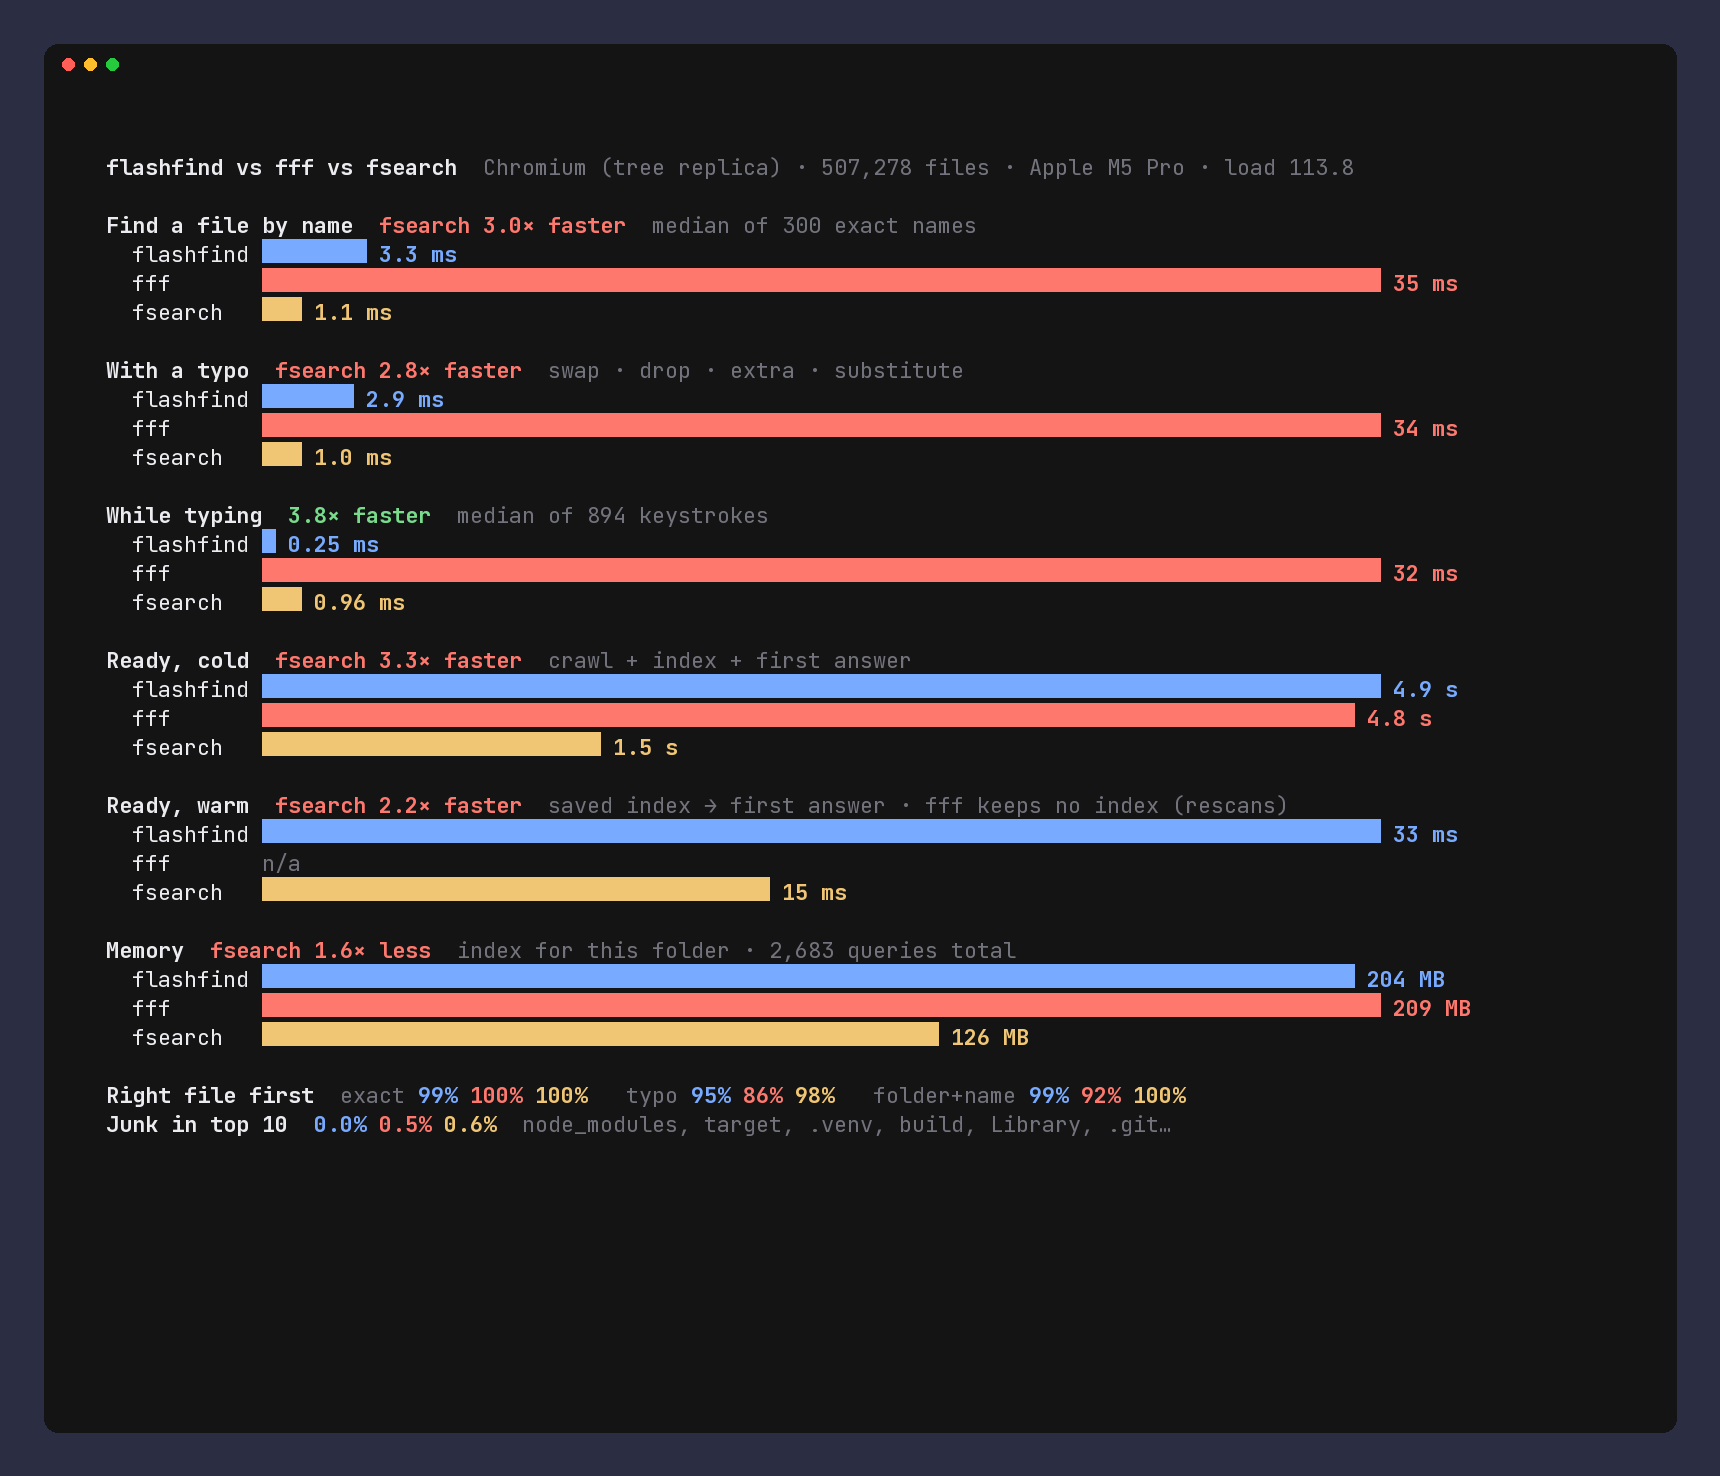
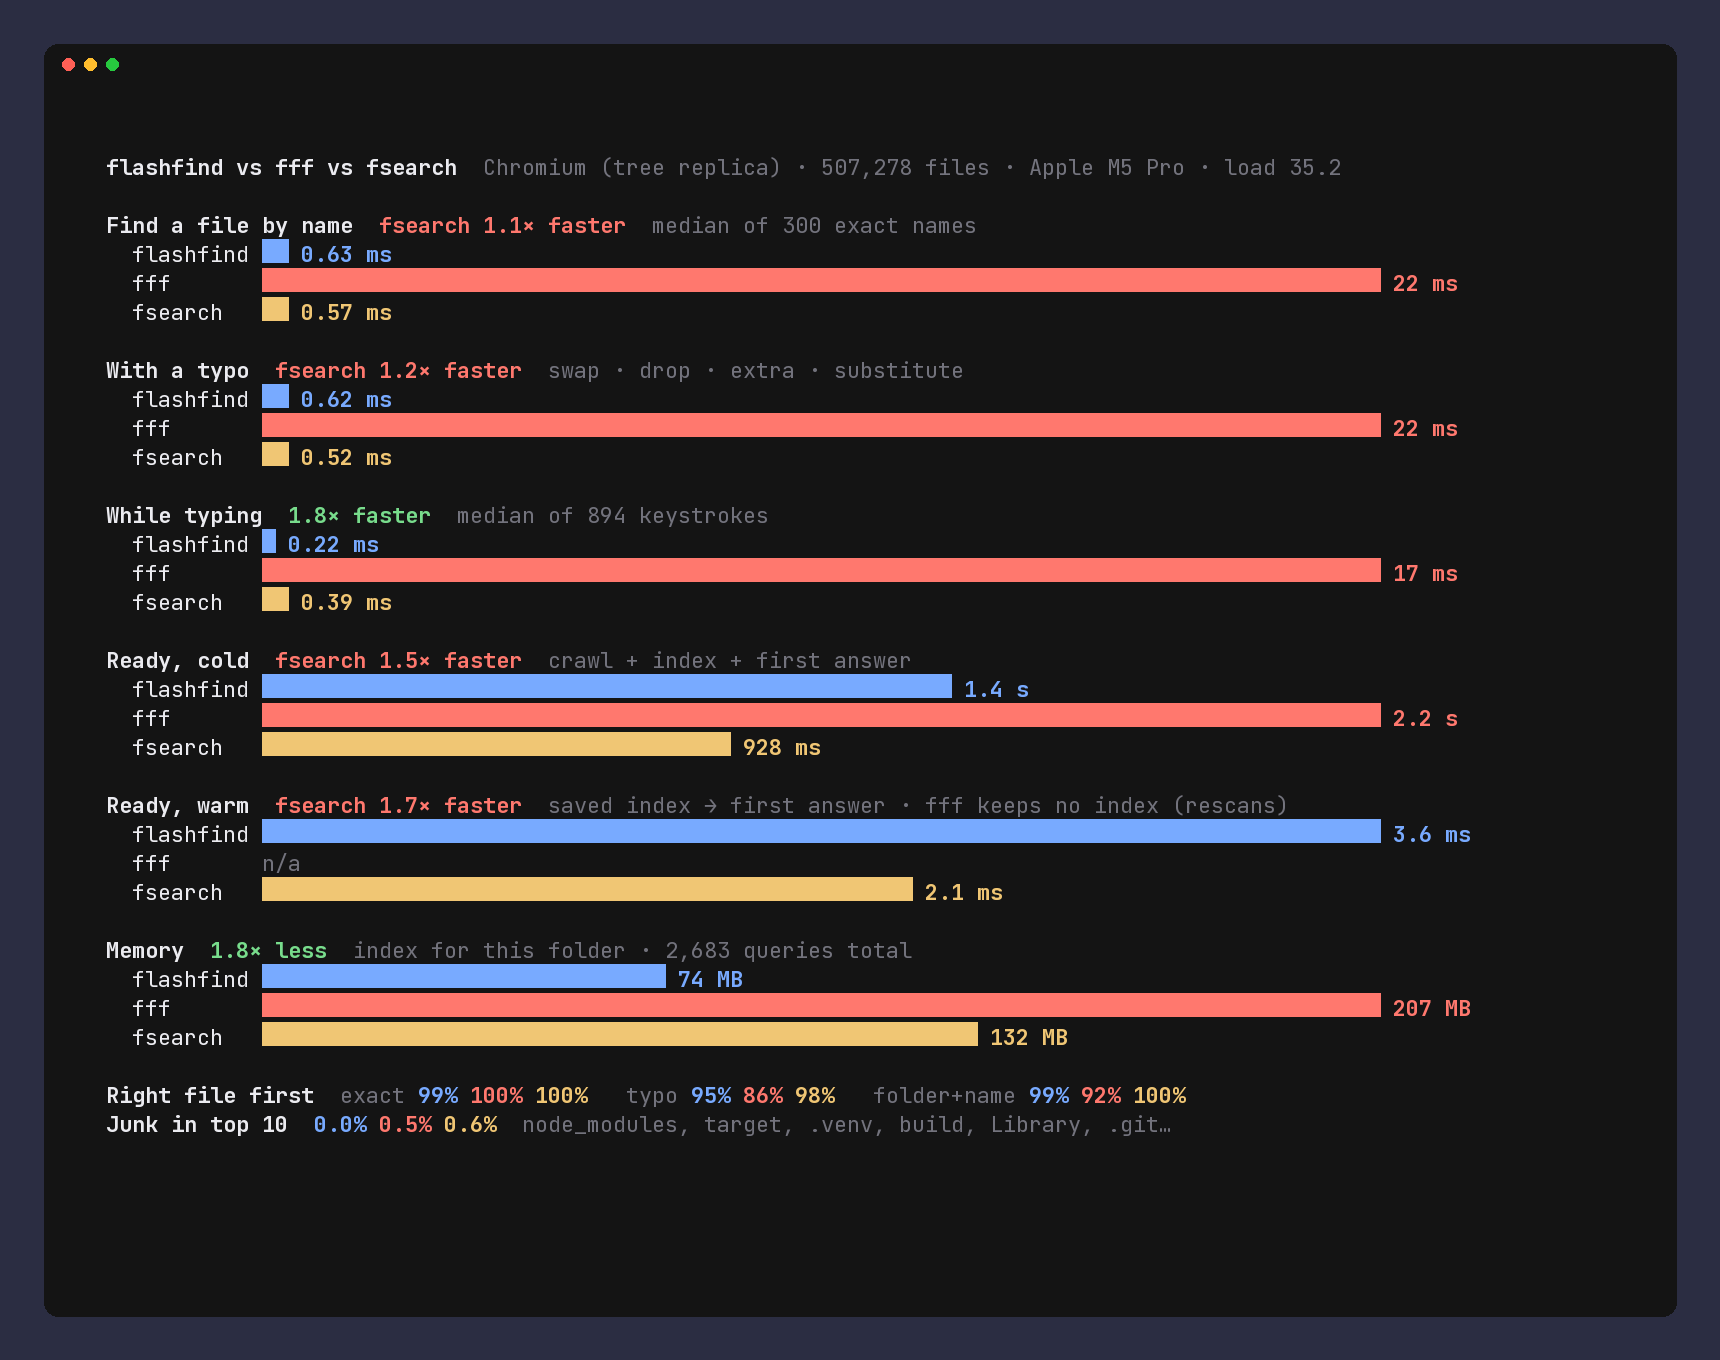
bench-vs: re-run after the optimization pass (before/after, docs images, honest gaps)

diff --git a/bench/VS_RESULTS.md b/bench/VS_RESULTS.md
@@ -22,83 +22,140 @@ child processes.
   content indexing, mmap warmup and the watcher are off (name search only).
   **fsearch** = upstream library (`walk::scan` + `Index::build` + `Searcher`)
   on the same folder.
-- **Machine load was very high** during these runs (load averages 27–114 from
-  unrelated work: Xcode builds, a simulator), so absolute numbers are noisy and
-  p95/p99 especially. Ratios are more meaningful than absolutes. Re-run on a
-  quiet machine before quoting.
+- **Machine load.** These runs had load averages of 27–35 from unrelated
+  work (54 logged-in sessions, Xcode, simulators). That is lower than the
+  first run (27–114) but not quiet. Ratios between engines in the same run are
+  more meaningful than absolute numbers. Re-run on a quiet machine before
+  quoting.
 - **Entry counts differ.** flashfind and fsearch count files plus folders. fff
   counts files only. fsearch also indexes ignored and junk files.
 
+## Before / after the optimization pass (Chromium tree replica, medians)
+
+| metric | flashfind before | flashfind after | fff | fsearch |
+|---|---|---|---|---|
+| exact name | 3.3 ms | 0.63 ms | 22 ms | **0.57 ms** |
+| with a typo | 2.9 ms | 0.62 ms | 22 ms | **0.52 ms** |
+| folder + name | 11 ms | 3.3 ms | 5.7 ms | **1.7 ms** |
+| per keystroke | 0.25 ms | **0.22 ms** | 17 ms | 0.39 ms |
+| ready, cold | 4.9 s | 1.4 s | 2.2 s | **0.93 s** |
+| ready, warm | 33 ms | 3.6 ms | n/a | **2.1 ms** |
+| memory | 204 MB | **74 MB** | 207 MB | 132 MB |
+| right file first (exact / typo) | 99% / 95% | 99% / 95% | 100% / 86% | 100% / 98% |
+
+"Before" is the earlier run (load 27–114), "after" this one (load 27–35), so
+part of every engine's speedup is the quieter machine. Compare engines within
+a row of the same run: fsearch went from 3× faster to 1.1–1.2× faster.
+flashfind's results did not change: on all 2,683 benchmark queries the top 50
+(paths, scores, totals) are identical before and after, and the index is
+byte-identical (except its build timestamp) on Chromium, Linux, the 200-repo
+tree and two real checkouts.
+
+What changed (profiled first: the whole one-shot cost was the scan over
+418k unique names; repo masks, the 150-hit fetch, hit conversion and JSON
+were all under 1%):
+
+1. **Clean match only when every token character class is present.** Before,
+   all ~81k names passing the loose typo mask ran the subsequence scan. Now
+   only the ~7k that have every class do.
+2. **Exact typo prefilters before the OSA DP:** the q-gram count lemma (each
+   edit destroys at most q+1 of the token's q-grams; tested over the name's
+   bytes with a direct-indexed trigram set), plus a check that one of the 2k+1
+   token pieces occurs verbatim. OSA runs dropped from ~30k to ~2.7k names
+   per query. A randomized property test checks that these filters never
+   reject a name the OSA path accepts.
+3. **Bigram-signature test folded into the branchless gather loop**, and
+   `may_match` made popcount-free for k ≤ 2.
+4. **4k-name scan chunks** instead of 16k, for better load balance across
+   cores (largest single win after 1 and 2).
+5. **Cold build:** listings built from raw path bytes (985 → 234 ms). Then the
+   crawl writes straight into per-folder listings: the `ignore` crate still
+   decides inclusion, its `filter_entry` runs for a folder's accepted children
+   on the thread that read the folder, and macOS reads sizes and mtimes with
+   one getattrlistbulk call per folder instead of an lstat per entry. There is
+   no path per entry and no global path sort.
+6. **Memory:** most of the old 204 MB was transient crawl data (a `Vec<u8>`
+   path per entry) that macOS malloc kept as footprint. The per-folder crawl
+   peaks at about 80 MB. `release_memory()` (malloc_zone_pressure_relief /
+   malloc_trim) runs after builds and compactions.
+
+Tried and dropped: an early exit inside the q-gram count plus lazy
+original-case fetching (identical results, no measurable gain), and 2k chunks
+(slower than 4k).
+
 ### Chromium (tree replica)
 
-507,278 visible files (not hidden, not gitignored; 555,555 entries in total) · Apple M5 Pro (15 cores, 52 GB) · macOS 26.5.1 · load 27.1 before, 113.8 after · 1,789 name queries, 894 keystrokes · top 50 · warm
+507,278 visible files (not hidden, not gitignored; 555,555 entries in total) · Apple M5 Pro (15 cores, 52 GB) · macOS 26.5.1 · load 32.1 before, 35.2 after · 1,789 name queries, 894 keystrokes · top 50 · warm
 
 | class | engine | n | p50 | p95 | p99 | right file first | junk in top 10 |
 |---|---|---|---|---|---|---|---|
-| exact | flashfind | 300 | 3.3 ms | 14 ms | 24 ms | 99% | 0.0% |
-| exact | fff | 300 | 35 ms | 69 ms | 112 ms | 100% | 0.6% |
-| exact | fsearch | 300 | **1.1 ms** | 6.8 ms | 15 ms | 100% | 0.4% |
-| typo | flashfind | 1200 | 2.9 ms | 14 ms | 25 ms | 95% | 0.0% |
-| typo | fff | 1200 | 34 ms | 67 ms | 101 ms | 86% | 0.5% |
-| typo | fsearch | 1200 | **1.0 ms** | 8.1 ms | 21 ms | 98% | 0.8% |
-| folder | flashfind | 289 | 11 ms | 29 ms | 36 ms | 99% | 0.0% |
-| folder | fff | 289 | 10 ms | 43 ms | 59 ms | 92% | 0.4% |
-| folder | fsearch | 289 | **2.7 ms** | 20 ms | 33 ms | 100% | 0.6% |
-| keys | flashfind | 894 | **0.25 ms** | 11 ms | 20 ms | 98% | – |
-| keys | fff | 894 | 32 ms | 61 ms | 86 ms | 100% | – |
-| keys | fsearch | 894 | 0.96 ms | 15 ms | 30 ms | 100% | – |
+| exact | flashfind | 300 | 0.63 ms | 3.3 ms | 8.8 ms | 99% | 0.0% |
+| exact | fff | 300 | 22 ms | 38 ms | 54 ms | 100% | 0.6% |
+| exact | fsearch | 300 | **0.57 ms** | 2.3 ms | 4.5 ms | 100% | 0.4% |
+| typo | flashfind | 1200 | 0.62 ms | 3.5 ms | 8.3 ms | 95% | 0.0% |
+| typo | fff | 1200 | 22 ms | 39 ms | 56 ms | 86% | 0.5% |
+| typo | fsearch | 1200 | **0.52 ms** | 2.2 ms | 4.4 ms | 98% | 0.8% |
+| folder | flashfind | 289 | 3.3 ms | 9.4 ms | 16 ms | 99% | 0.0% |
+| folder | fff | 289 | 5.7 ms | 24 ms | 38 ms | 92% | 0.4% |
+| folder | fsearch | 289 | **1.7 ms** | 5.0 ms | 9.0 ms | 100% | 0.6% |
+| keys | flashfind | 894 | **0.22 ms** | 2.5 ms | 4.5 ms | 98% | – |
+| keys | fff | 894 | 17 ms | 30 ms | 37 ms | 100% | – |
+| keys | fsearch | 894 | 0.39 ms | 2.4 ms | 4.7 ms | 100% | – |
 
 | engine | entries indexed | ready, cold | ready, warm | memory |
 |---|---|---|---|---|
-| flashfind | 551,344 | 4.9 s | 33 ms | 204 MB |
-| fff | 508,888 | 4.8 s | n/a (no saved index) | 209 MB |
-| fsearch | 555,555 | 1.5 s | 15 ms | 126 MB |
+| flashfind | 551,344 | 1.4 s | 3.6 ms | 74 MB |
+| fff | 508,888 | 2.2 s | n/a (no saved index) | 207 MB |
+| fsearch | 555,555 | 928 ms | 2.1 ms | 132 MB |
+
 ### Linux kernel (tree replica)
 
-96,066 visible files (not hidden, not gitignored; 109,022 entries in total) · Apple M5 Pro (15 cores, 52 GB) · macOS 26.5.1 · load 113.8 before, 90.1 after · 1,789 name queries, 528 keystrokes · top 50 · warm
+96,066 visible files (not hidden, not gitignored; 109,022 entries in total) · Apple M5 Pro (15 cores, 52 GB) · macOS 26.5.1 · load 32.5 before, 28.2 after · 1,789 name queries, 528 keystrokes · top 50 · warm
 
 | class | engine | n | p50 | p95 | p99 | right file first | junk in top 10 |
 |---|---|---|---|---|---|---|---|
-| exact | flashfind | 300 | 0.25 ms | 0.95 ms | 1.6 ms | 100% | 0.0% |
-| exact | fff | 300 | 1.9 ms | 4.2 ms | 7.6 ms | 100% | 0.1% |
-| exact | fsearch | 300 | **0.19 ms** | 0.67 ms | 1.5 ms | 100% | 0.1% |
-| typo | flashfind | 1200 | 0.25 ms | 1.1 ms | 3.1 ms | 95% | 0.0% |
-| typo | fff | 1200 | 1.8 ms | 4.2 ms | 7.2 ms | 90% | 0.2% |
-| typo | fsearch | 1200 | **0.18 ms** | 0.67 ms | 2.0 ms | 97% | 0.1% |
-| folder | flashfind | 289 | 0.56 ms | 1.4 ms | 2.1 ms | 100% | 0.0% |
-| folder | fff | 289 | 1.1 ms | 4.5 ms | 7.4 ms | 96% | 0.1% |
-| folder | fsearch | 289 | **0.53 ms** | 1.5 ms | 2.5 ms | 100% | 0.2% |
-| keys | flashfind | 528 | **0.12 ms** | 0.61 ms | 0.86 ms | 100% | – |
-| keys | fff | 528 | 1.8 ms | 3.6 ms | 4.4 ms | 100% | – |
-| keys | fsearch | 528 | 0.22 ms | 1.2 ms | 2.1 ms | 100% | – |
+| exact | flashfind | 300 | 0.19 ms | 0.34 ms | 0.52 ms | 100% | 0.0% |
+| exact | fff | 300 | 1.0 ms | 1.8 ms | 2.3 ms | 100% | 0.1% |
+| exact | fsearch | 300 | **0.14 ms** | 0.31 ms | 0.47 ms | 100% | 0.1% |
+| typo | flashfind | 1200 | 0.19 ms | 0.33 ms | 0.49 ms | 95% | 0.0% |
+| typo | fff | 1200 | 1.0 ms | 1.9 ms | 2.4 ms | 90% | 0.2% |
+| typo | fsearch | 1200 | **0.13 ms** | 0.26 ms | 0.45 ms | 97% | 0.1% |
+| folder | flashfind | 289 | **0.27 ms** | 0.46 ms | 0.71 ms | 100% | 0.0% |
+| folder | fff | 289 | 0.61 ms | 2.1 ms | 2.9 ms | 96% | 0.1% |
+| folder | fsearch | 289 | 0.38 ms | 0.71 ms | 0.91 ms | 100% | 0.2% |
+| keys | flashfind | 528 | **78 µs** | 0.40 ms | 0.59 ms | 100% | – |
+| keys | fff | 528 | 1.2 ms | 2.3 ms | 2.7 ms | 100% | – |
+| keys | fsearch | 528 | 0.17 ms | 0.85 ms | 1.1 ms | 100% | – |
 
 | engine | entries indexed | ready, cold | ready, warm | memory |
 |---|---|---|---|---|
-| flashfind | 102,116 | 408 ms | 1.5 ms | 24 MB |
-| fff | 96,066 | 369 ms | n/a (no saved index) | 42 MB |
-| fsearch | 109,022 | 158 ms | 2.1 ms | 27 MB |
+| flashfind | 102,116 | 154 ms | 0.55 ms | 33 MB |
+| fff | 96,066 | 186 ms | n/a (no saved index) | 43 MB |
+| fsearch | 109,022 | 99 ms | 0.51 ms | 26 MB |
+
 ### 200 synthetic repos
 
-47,883 visible files (not hidden, not gitignored; 271,525 entries in total) · Apple M5 Pro (15 cores, 52 GB) · macOS 26.5.1 · load 83.7 before, 61.4 after · 1,800 name queries, 617 keystrokes, 300 repo: queries · top 50 · warm
+47,883 visible files (not hidden, not gitignored; 271,525 entries in total) · Apple M5 Pro (15 cores, 52 GB) · macOS 26.5.1 · load 28.2 before, 29.1 after · 1,800 name queries, 617 keystrokes, 300 repo: queries · top 50 · warm
 
 | class | engine | n | p50 | p95 | p99 | right file first | junk in top 10 |
 |---|---|---|---|---|---|---|---|
-| exact | flashfind | 300 | **0.14 ms** | 0.50 ms | 0.90 ms | 100% | 0.0% |
-| exact | fff | 300 | 1.9 ms | 4.6 ms | 7.4 ms | 100% | 5.2% |
-| exact | fsearch | 300 | 0.34 ms | 0.94 ms | 2.5 ms | 100% | 42.7% |
-| typo | flashfind | 1200 | **0.12 ms** | 0.45 ms | 0.97 ms | 98% | 0.0% |
-| typo | fff | 1200 | 1.7 ms | 4.1 ms | 8.6 ms | 99% | 5.4% |
-| typo | fsearch | 1200 | 0.30 ms | 0.97 ms | 2.8 ms | 99% | 28.8% |
-| folder | flashfind | 300 | **0.53 ms** | 1.5 ms | 1.7 ms | 100% | 0.0% |
-| folder | fff | 300 | 0.86 ms | 2.5 ms | 4.8 ms | 96% | 3.5% |
-| folder | fsearch | 300 | 0.89 ms | 2.4 ms | 4.3 ms | 100% | 3.7% |
-| keys | flashfind | 617 | **0.19 ms** | 0.90 ms | 1.7 ms | 100% | – |
-| keys | fff | 617 | 2.2 ms | 5.8 ms | 13 ms | 100% | – |
-| keys | fsearch | 617 | 0.57 ms | 4.5 ms | 7.7 ms | 100% | – |
-| repo | flashfind | 300 | **0.16 ms** | 0.70 ms | 0.98 ms | 100% | – |
+| exact | flashfind | 300 | **0.12 ms** | 0.22 ms | 0.29 ms | 100% | 0.0% |
+| exact | fff | 300 | 1.1 ms | 2.2 ms | 2.9 ms | 100% | 5.2% |
+| exact | fsearch | 300 | 0.22 ms | 0.35 ms | 0.72 ms | 100% | 42.7% |
+| typo | flashfind | 1200 | **0.12 ms** | 0.21 ms | 0.31 ms | 98% | 0.0% |
+| typo | fff | 1200 | 0.97 ms | 1.8 ms | 2.7 ms | 99% | 5.4% |
+| typo | fsearch | 1200 | 0.20 ms | 0.33 ms | 0.55 ms | 99% | 28.8% |
+| folder | flashfind | 300 | **0.19 ms** | 0.41 ms | 0.55 ms | 100% | 0.0% |
+| folder | fff | 300 | 0.49 ms | 0.94 ms | 1.3 ms | 96% | 3.5% |
+| folder | fsearch | 300 | 0.56 ms | 0.91 ms | 1.4 ms | 100% | 3.7% |
+| keys | flashfind | 617 | **82 µs** | 0.29 ms | 0.38 ms | 100% | – |
+| keys | fff | 617 | 0.85 ms | 1.3 ms | 1.5 ms | 100% | – |
+| keys | fsearch | 617 | 0.23 ms | 0.83 ms | 1.0 ms | 100% | – |
+| repo | flashfind | 300 | **100 µs** | 0.16 ms | 0.20 ms | 100% | – |
 
 | engine | entries indexed | ready, cold | ready, warm | memory |
 |---|---|---|---|---|
-| flashfind | 30,566 | 168 ms | 0.64 ms | 19 MB |
-| fff | 34,549 | 129 ms | n/a (no saved index) | 15 MB |
-| fsearch | 271,525 | 618 ms | 0.99 ms | 65 MB |
+| flashfind | 30,566 | 113 ms | 0.65 ms | 13 MB |
+| fff | 34,549 | 113 ms | n/a (no saved index) | 15 MB |
+| fsearch | 271,525 | 478 ms | 0.78 ms | 64 MB |
+

diff --git a/README.md b/README.md
@@ -359,37 +359,48 @@ python3 bench/vs/render.py run.cast out.png [--marker race] [--mp4 out.mp4]   # 
 is used from `../fsearch` and cloned there if missing). It installs nothing
 system-wide. fsearch is macOS-only, so on Linux the race is flashfind vs fff.
 
-Median latency (Apple M5 Pro, macOS 26.5.1, **heavily loaded machine**, see
-[bench/VS_RESULTS.md](bench/VS_RESULTS.md) for p95/p99 and method):
+Median latency (Apple M5 Pro, macOS 26.5.1, loaded machine: load average
+27–35 during the run; see [bench/VS_RESULTS.md](bench/VS_RESULTS.md) for
+p95/p99, method and the before/after of the optimization pass):
 
 | dataset | query | flashfind | fff | fsearch |
 |---|---|---|---|---|
-| Chromium tree, 507k files | exact name | 3.3 ms | 35 ms | **1.1 ms** |
-| | with a typo | 2.9 ms | 34 ms | **1.0 ms** |
-| | per keystroke | **0.25 ms** | 32 ms | 0.96 ms |
+| Chromium tree, 507k files | exact name | 0.63 ms | 22 ms | **0.57 ms** |
+| | with a typo | 0.62 ms | 22 ms | **0.52 ms** |
+| | folder + name | 3.3 ms | 5.7 ms | **1.7 ms** |
+| | per keystroke | **0.22 ms** | 17 ms | 0.39 ms |
 | | typo → right file first | 95% | 86% | **98%** |
-| | ready cold / memory | 4.9 s / 204 MB | 4.8 s / 209 MB | **1.5 s / 126 MB** |
-| Linux tree, 96k files | exact / typo | 0.25 / 0.25 ms | 1.9 / 1.8 ms | **0.19 / 0.18 ms** |
-| | per keystroke | **0.12 ms** | 1.8 ms | 0.22 ms |
-| 200 repos + junk, 48k files | exact / typo | **0.14 / 0.12 ms** | 1.9 / 1.7 ms | 0.34 / 0.30 ms |
-| | per keystroke | **0.19 ms** | 2.2 ms | 0.57 ms |
+| | ready cold | 1.4 s | 2.2 s | **0.93 s** |
+| | memory | **74 MB** | 207 MB | 132 MB |
+| Linux tree, 96k files | exact / typo | 0.19 / 0.19 ms | 1.0 / 1.0 ms | **0.14 / 0.13 ms** |
+| | per keystroke | **78 µs** | 1.2 ms | 0.17 ms |
+| | ready cold / memory | 154 ms / 33 MB | 186 ms / 43 MB | **99 ms / 26 MB** |
+| 200 repos + junk, 48k files | exact / typo | **0.12 / 0.12 ms** | 1.1 / 0.97 ms | 0.22 / 0.20 ms |
+| | per keystroke | **82 µs** | 0.85 ms | 0.23 ms |
 | | junk in top 10 | **0%** | 5% | 29–43% |
-| | `repo:` queries | **0.16 ms, 100% first** | – | – |
+| | `repo:` queries | **0.10 ms, 100% first** | – | – |
 
-Where flashfind loses:
-- **fsearch is about 3× faster per one-shot name query on one big repo**, and
-  also builds its index about 3× faster with about 40% less memory there.
-  flashfind's code engine pays for repo mapping and project-aware ranking on
-  every query.
-- **fff starts slightly faster and uses a little less memory** on the
-  multi-repo tree.
+Where flashfind still loses:
+- **One-shot name search on one big repo**: fsearch is about 10–20% faster on
+  Chromium (0.57 vs 0.63 ms exact, 0.52 vs 0.62 ms typo) and about 30% faster
+  on Linux. The gap was 3× before the optimization pass. What remains is the
+  name scan itself: flashfind's typo model (OSA distance anywhere in the name,
+  up to 2 edits) checks more candidates than fsearch's (one edit, at a word
+  start).
+- **Folder + name queries on Chromium** (3.3 vs 1.7 ms).
+- **Cold build**: 1.4 s vs 0.93 s on Chromium. flashfind honors .gitignore
+  through the `ignore` crate, so every folder is read twice on macOS (readdir
+  for the walk, getattrlistbulk for sizes and mtimes).
 - **Typo top-1 on Chromium is 95%**, behind fsearch's 98%.
+- On the small Linux tree fsearch also uses a little less memory.
 
 Where flashfind wins:
 - **Typing**: incremental narrowing makes each keystroke cheaper than a fresh
-  search.
-- **Many repos at once**: gitignore-aware, no junk, `repo:` filters.
-- **fff in every latency row** (about 10×).
+  search (about 2× fsearch).
+- **Memory on big repos**: 74 MB vs 132 MB on Chromium.
+- **Many repos at once**: gitignore-aware, no junk, `repo:` filters, fastest
+  in every row.
+- **fff in every latency row** (5–35×).
 
 ![race view](docs/bench-vs-race.png)
 
